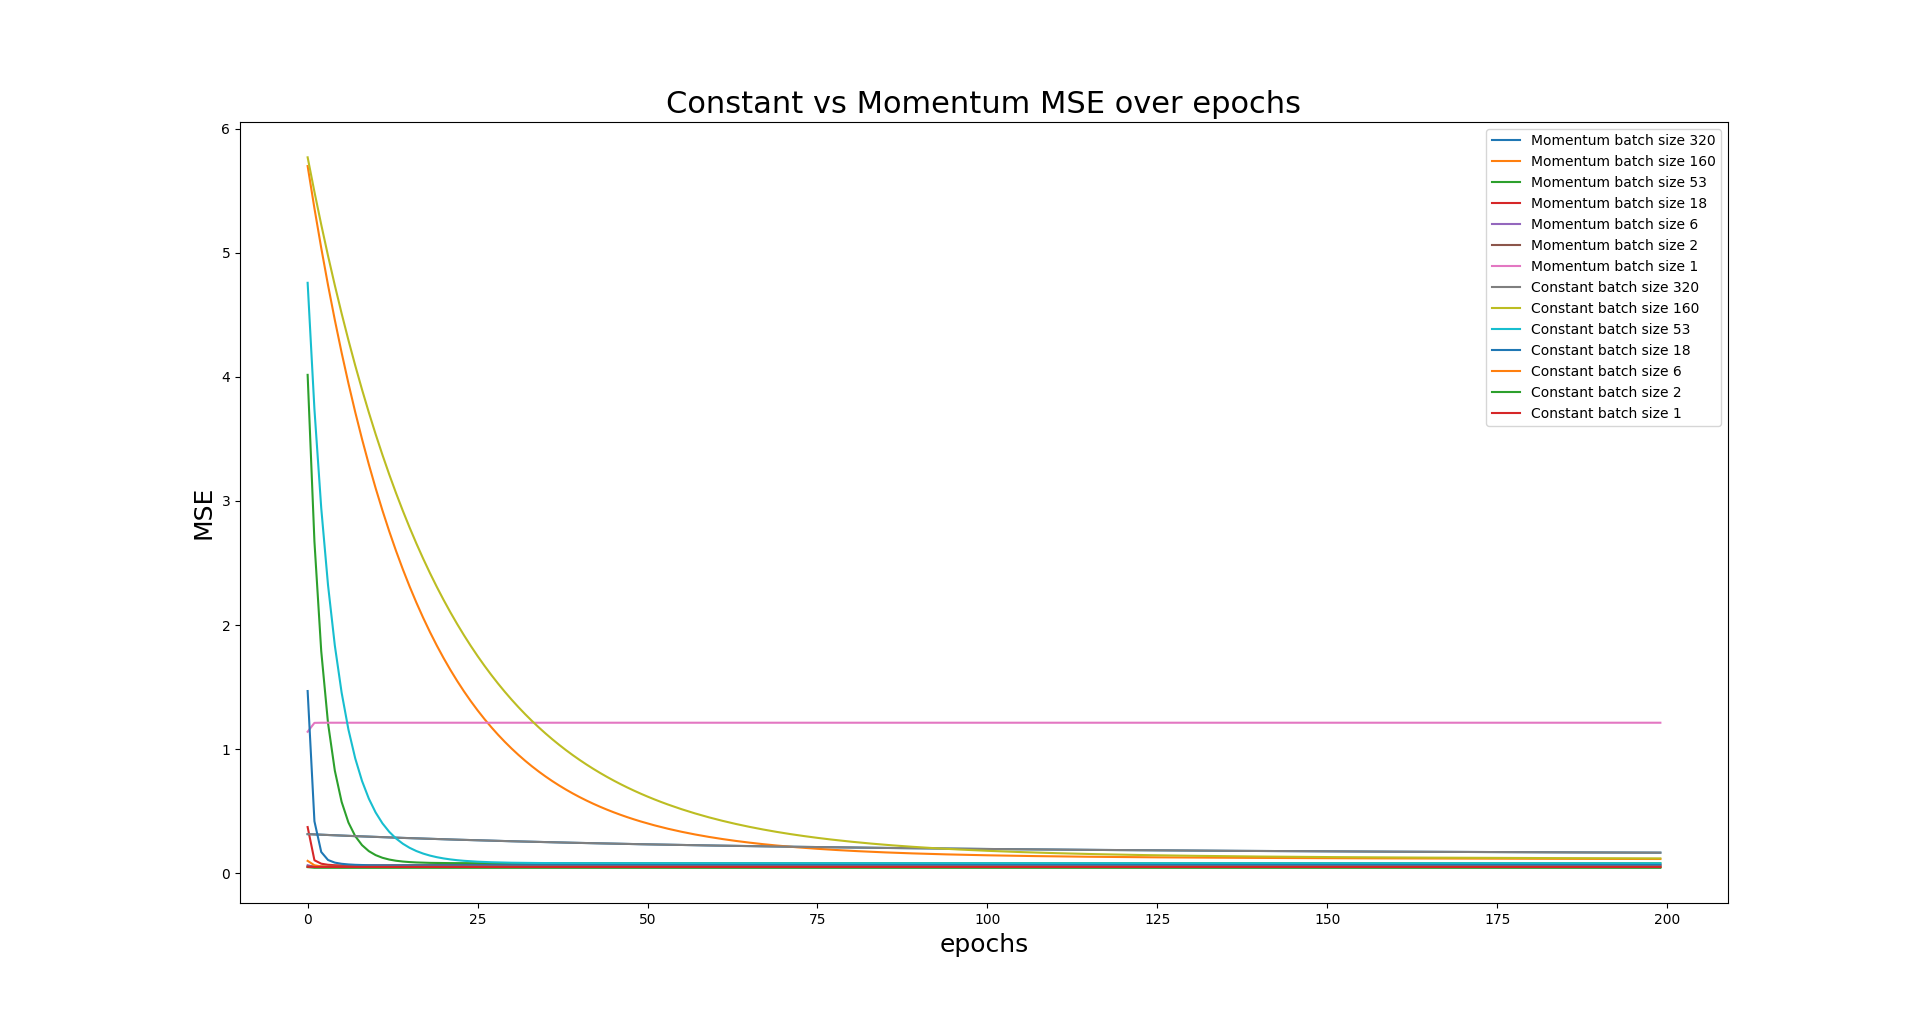
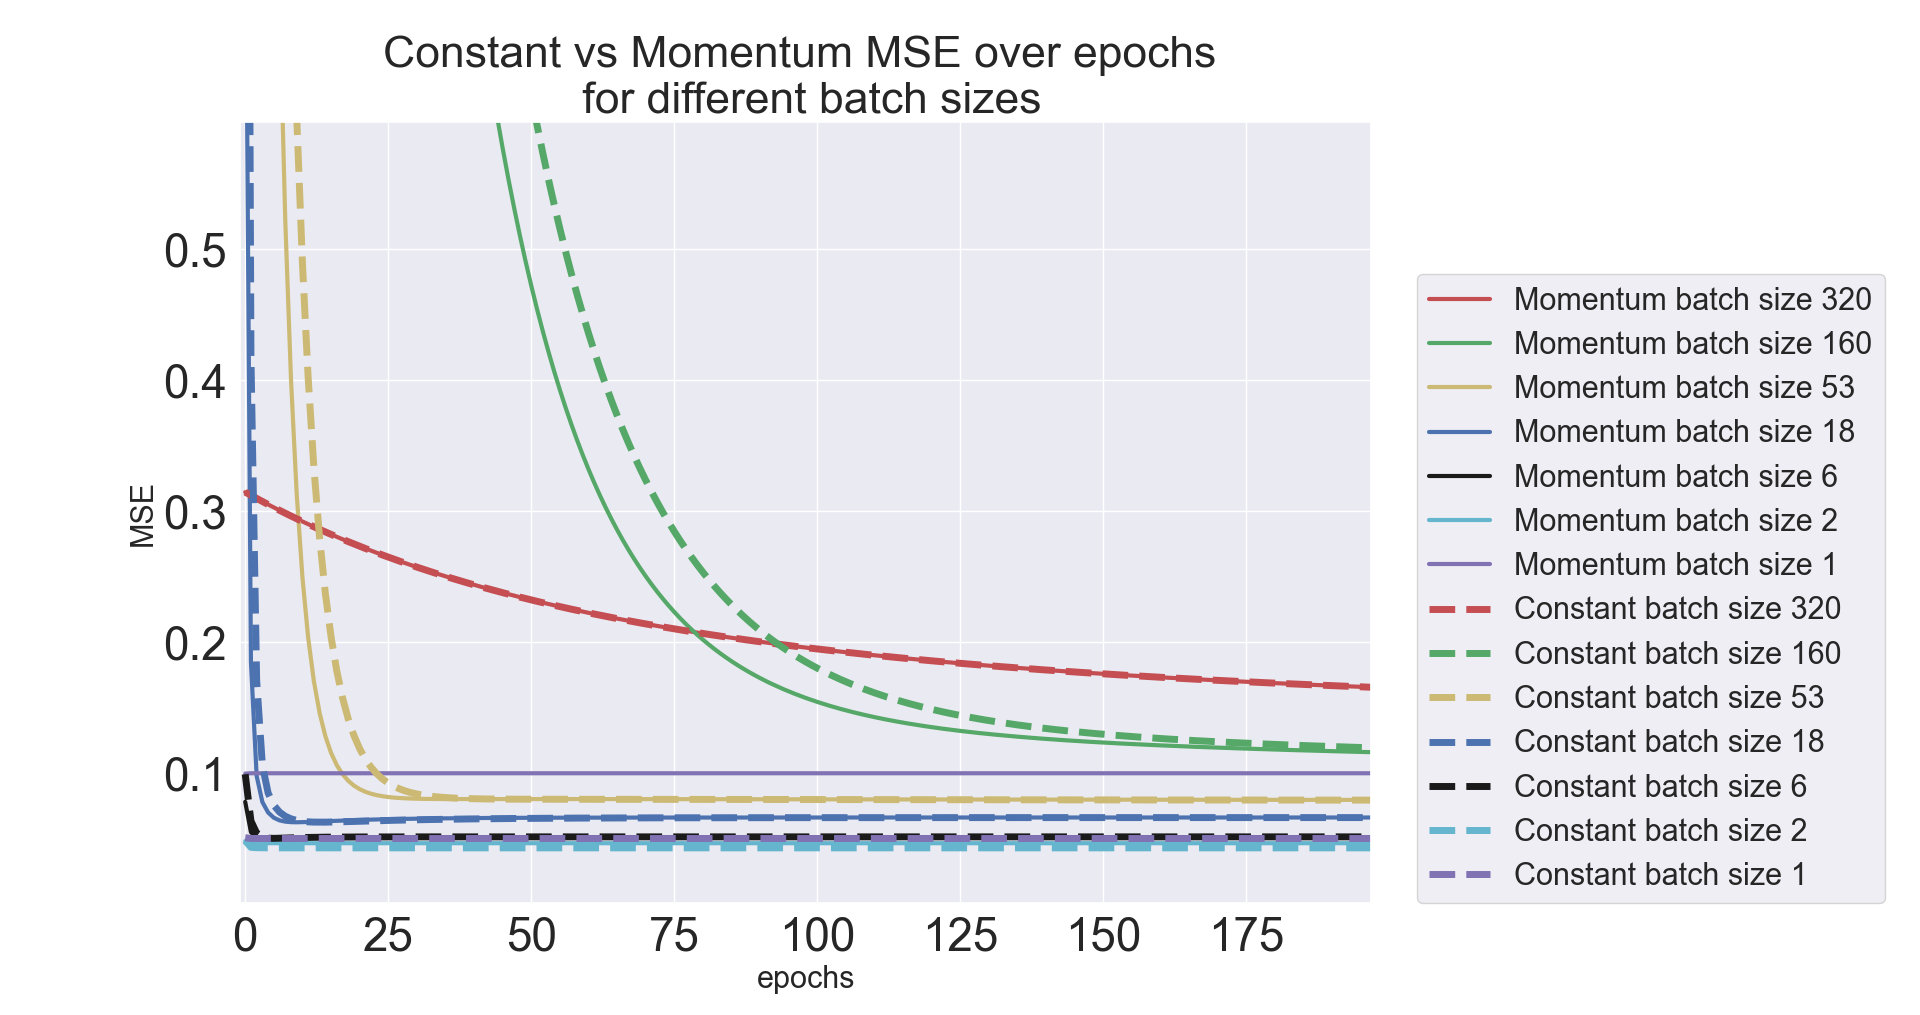
more changes

diff --git a/doc/paper.tex b/doc/paper.tex
@@ -298,41 +298,54 @@ MNIST 8x8 & 1797 & 64 & multiclass classification (10 classes) \\
 
 \subsection{Different schedulers used with linear regression}
 
--hessian vs constant?
--constant vs momentum
--adaptive methods
--batch sizes
-
 In order to study the attributes of the different scheduler methods we performed numerical linear regression using gradient descent on the Franke Function with 55 features. We started off by comparing Newtons method for gradient descent to a constant learning rate using full batch gradient descent.
 
-FIG CONSTANT V HESSIAN
+\begin{figure}[h]
+\centerline{\includegraphics[width=5in]{figure/constant_v_hessian.png}}
+\caption{Constant scheduler with gridsearched hyperparameters vs hessian (Newton's method) MSE for test data plotted for 200 epochs}
+\label{constant_v_hessian}
+\end{figure}
 
-From observing FIG CONSTANT V HESSIAN we see that Newton's method using Hessian inversion greatly outperforms the constant scheduler by reaching an MSE of 0.02 for the testing data within the first epoch. This is due to the Hessian inversion in the first epoch in Newton's method being equivalent to the analytical solution.  By comparison, the constant scheduler given 200 epochs reaches an MSE of 0.198 for the testing data. Given this result, it would seem indefensible to claim that Newtons method requires improvements, especially considering the time it took the Newton method 0.1512 seconds to compute 200 epochs, again beating the result from the constant scheduler which took 0.4991 seconds \footnote{this result should be taken with a grain of salt, given that the constant scheduler is run as a part of a larger architecture, whilst the Hessian calculation is done in a seperate script. Still, this provides an intuition that Newton's method does not take much time to compute this specific problem}. This result is due to the Hessian matrix only being a mere 56x56 matrix for this problem, such that the matrix inversion will not be computationally complex. However, if we were to increase the complexity of the problem, Newtons method would rapidly increase in computational complexity as it is a large matrix inversion with many floating point operations. For problems of such a small scale, when our features are based on a polynomial approximation Franke Function, it can be important to remember that we don't necessarily have to turn to these fancier solutions as the simple Newton method will do the job perfectly. Keeping this lesson in mind, we wish to further investigate the various scheduler methods in order to gain a better understanding of how well they perform, which will become useful for larger problems.
+From observing Fig.~\ref{constant_v_hessian} we see that Newton's method using inversion of the  Hessian matrix greatly outperforms the constant scheduler by reaching an MSE of 0.020 for the testing data within the first epoch. Newton's method quickly converges, but does so with some error SULI P121, meaning it will not improve past this result. The analytical solution provides an MSE of approximately 0.003 REBER ET HANSSEN, a whole order of magnitude lower than the MSE Newton's method achieves. By comparison, the constant scheduler given 200 epochs reaches an MSE of 0.198 for the testing data. Given this result, it would seem indefensible to claim that Newtons method requires improvements, especially considering the time it took the Newton method 0.1512 seconds to compute 200 epochs, again beating the result from the constant scheduler which took 0.4991 seconds \footnote{this result should be taken with a grain of salt, given that the constant scheduler is run as a part of a larger architecture, whilst the Hessian calculation is done in a seperate script. Still, this provides an intuition that Newton's method does not take much time to compute this specific problem}. This result is due to the Hessian matrix only being a mere 56x56 matrix for this problem, such that the Hessian matrix inversion will not be computationally complex. However, if we were to increase the complexity of the problem, Newtons method would rapidly increase in computational complexity as it is a large matrix inversion with many floating point operations. For problems of such a small scale, when our features are based on a polynomial approximation of the Franke Function, it can be important to remember that we don't necessarily have to turn to these fancier solutions as the simple Newton method will do the job perfectly very well for little computational cost. Keeping this lesson in mind, we wish to further investigate the various scheduler methods in order to gain a better understanding of how well they perform, which will become useful for larger problems.
 
-From FIGURE MOMENTUM v CONSTANT we can observe that adding momentum reduces the amount of epochs necessary to reach a lower MSE score. Already after EPOCHS epochs, the momentum scheduler has achieved MOMENTUM MSE AT EPOCHS, a notable improvement over CONSTANT MSE AT EPOCHS achieved by a constant learning rate.
+\begin{figure}[h]
+\centerline{\includegraphics[width=5in]{figure/constant_v_momentum.png}}
+\caption{Constant vs momentum MSE for test data plotted for 200 epochs using full gradient descent}
+\label{constant_v_momentum}
+\end{figure}
 
-From FIGURE MOMENTUM  v CONSTANT, we can observe that adding momentum does not improve upon the solutions found by the constant scheduler when using full gradient descent, reaching once again an MSE of 0.21 for the test data. This implies that when both schedulers are gridsearched for optimal hyperparameters, the optimal value for the momentum hyperparameter is 0. This result makes sense, as the momentum hyperparameter is used to reduce noise from derivatives calculated from smaller batch sizes, so-called mini batches. When utilizing a full gradient descent, where the batch size equals the size of the training data, momentum will not improve our results.
+From  Fig.~\ref{constant_v_momentum}, we can observe that adding momentum does not improve upon the solutions found by the constant scheduler when using full gradient descent, reaching once again an MSE of 0.21 for the test data. This implies that when both schedulers are gridsearched for optimal hyperparameters, the optimal value for the momentum hyperparameter is 0. This result makes sense, as the momentum hyperparameter is used to reduce noise from derivatives calculated from smaller batch sizes, so-called mini batches. When utilizing a full gradient descent, where the batch size equals the size of the training data, momentum will not improve our results.
 
-BATCH SIZE FIG (should mention in text that 320 is the size of the training data. Should mention base batch size for grid search was 18)
+\begin{figure}[h]
+\centerline{\includegraphics[width=5in]{figure/SGD_batch_momentum_constant.png}}
+\caption{Constant vs momentum test MSE for different batch sizes, plotted for 200 epochs using full gradient descent. A batch size of 320 is full GD, whilst a batch size of 1 is fully stochastic GD.}
+\label{batch_constant_v_momentum}
+\end{figure}
 
-By introducing mini-batch gradient descent, we can observe that 
-
-By introducing mini-batch gradient descent of different batch sizes, we can observe from BATCH SIZE FIG that the scheduler methods perform better when optimized for different batch sizes over 100 epochs. Both the constant and the momentum scheduler seem to vary equally over batch sizes, with the optimal batch size being equal to one. This means that our schedulers work the best for a fully stochastic gradient descent (SGD). The MSE with full gradient descent, as can be seen in BATCH SIZE FIG when batch size equals 320, provides an MSE of 4.211 of the test data, whilst SGD provides an MSE of 0.28 for the test data in an equal amount of time. Because we first gridsearched the optimal values of eta and lambda first with a predefined base batch size, we must acknowledge that BATCH SIZE FIG will have some bias towards the batch size used when found the optimal hyperparameters. However, given that we have gridsearched with different base batch sizes accross our testing, we have found the results to be similar accross different base batch sizes, and that this bias which we induced to save computational time was insignificant. A full comparison of MSE over batch sizes for all the different schedulers can be viewed in APPENDIX in the appendix.
+By introducing mini-batch gradient descent, we can observe that stochastic gradient descent with momentum starts outperforming the constant scheduler consistantly, requiring fewer steps to reach a low MSE. Mini-batch gradient descent clearly yields a lower MSE for the test data than full gradient descent for the same amount of epochs. The best result for both constant and momentum were reached for a batch size equal to 2, close to a fully stochastic gradient descent. The test data MSE reached 0.044, an impressive improvement over constant's previous result of 0.198 MSE with full gradient descent. Because we first gridsearched the optimal values of eta and lambda first with a predefined base batch size, we must acknowledge that Fig.~\ref{batch_constant_v_momentum} will have some bias towards the batch size used when found the optimal hyperparameters. However, given that we have gridsearched with different base batch sizes accross our testing, we have found the results to be similar accross different base batch sizes, and that this bias which we induced to save computational time was insignificant. A full comparison of MSE over batch sizes for all the different schedulers can be viewed in APPENDIX in the appendix, but all schedulers yield the lowest MSE for stochastic gradient descent.
 
 FIG ALL
 TIME TABLE FOR ALL SCHEDULERS
 
-Furthermore, with the introduction of various adaptive scheduler methods such as RMS prop, adagrad, adagrad with momentum and adam we can observe from FIGURE ALL that we can reach even greater results in fewer epochs. We can also observe that the different schedulers all reach an MSE of 0.02 within a couple of epochs, but in order to get a better understanding of the computational cost we have also compared the time it took to fit the data to an MSE of 0.2 of the test data. Looking at TIME TABLE FOR ALL SCHEDULERS, Adagrad took the least time, beating out our baseline constant scheduler by 0,222106 seconds. Based on FIG ALL, Adam seems to reach an MSE of 0.2 the fastest when strictly looking at the number of epochs required, however, whilst Adagrad requires more epochs the computations are computed faster in our implementation. Surprisingly, RMS prop performed more poorly than expected compared to other adaptive schedulers.
+Furthermore, with the introduction of various adaptive scheduler methods such as RMS prop, adagrad, adagrad with momentum and adam we can observe from FIGURE ALL that we can reach even greater results in fewer epochs. We can also observe that the different schedulers all reach an MSE of 0.200 within a couple of epochs, but in order to get a better understanding of the computational cost we have also compared the time it took to fit the data to an MSE of 0.200 of the test data. Looking at TIME TABLE FOR ALL SCHEDULERS, Adagrad took the least time, beating out our baseline constant scheduler by 0,222106 seconds. Based on FIG ALL, Adam seems to reach an MSE of 0.2 the fastest when strictly looking at the number of epochs required, however, whilst Adagrad requires more epochs the computations are computed faster in our implementation. Surprisingly, RMS prop performed more poorly than expected compared to other adaptive schedulers.
 
-FIGURE NUM (heatmap)
+\begin{figure}[h]
+\centerline{\includegraphics[width=5in]{figure/100e_gridsearch.png}}
+\caption{MSE score gridsearch for hyperparameters eta, lambda for different schedulers}
+\label{heatmap}
+\end{figure}
 
-An interesting insight from FIGURE NUM is that all the schedulers prefer high learning rates and regularization. As this plot was generated for 100 epochs due to the computational complexity of gridsearching the six schedulers, the bias towards higher learning rates is certainly due to the high learning rates being able to reach a low MSE in the short training time. With the lambda = 0 column representing the ordinary least squares solutions, these are clearly consistantly outperformed by Ridge regression as the best MSE is achieved with regularization. For this specific plot, momentum does not seem to make out a noticeable difference for the best solutions, as the optimal solution equals their momentumless counterparts. That being said, in FIG ALL it is clear that the added momentum aids in a quicker convergence when compared to the constant scheduler.
+An interesting insight from Fig.~\ref{heatmap} is that all the schedulers prefer high learning rates and regularization. As this plot was generated for 100 epochs due to the computational complexity of gridsearching the six schedulers, the bias towards higher learning rates is certainly due to the high learning rates being able to reach a low MSE in the short training time. With the lambda = 0 column representing the ordinary least squares solutions, these are clearly consistantly outperformed by Ridge regression as the best MSE is achieved with regularization. For this specific plot, momentum does not seem to make out a noticeable difference for the best solutions, as the optimal solution equals their momentumless counterparts. That being said, in FIG ALL it is clear that the added momentum aids in a quicker convergence when compared to the constant scheduler.
 
-Another observation from FIG NUM is that the schedulers final error for 100 epochs are more or less the same. As the largest change in MSE occurs in the first 50 epochs as seen in ALL FIGS, perhaps the other schedulers are given enough time to catch up as the best performing schedulers, such as Adagrad, starts slowing down the rate at which the MSE is decreased. However, as can be seen in HEATMAP FIG, Adagrad offers a 12\% \footnote{$\frac{constant MSE}{adagrad MSE} * 100 = \frac{0.018}{0.015} * 100 = 12\%$} decrease in MSE compared to the constant scheduler. It is clear from the results thus far that Adagrad is the best scheduler for approximating the Franke function when using linear regression with gradient descent. We believe that the reason Adagrad wins out is that these result are based on training for 100 epochs. The downfall of Adagrad in the literature seems to be that the aggressive decaying of the learning rate hinders a quick convergence deeper into training SOURCE https://towardsdatascience.com/learning-parameters-part-5-65a2f3583f7d. We are thus cautionary to claim that Adagrad will do the best job over a much larger amount of epochs when compared to adaptive schedulers that claim to improve this aspect such as Adam.
+Another observation from Fig.~\ref{heatmap} is that the schedulers final error for 100 epochs are more or less the same. As the largest change in MSE occurs in the first 50 epochs as seen in ALL FIGS, perhaps the other schedulers are given enough time to catch up as the best performing schedulers, such as Adagrad, starts slowing down the rate at which the MSE is decreased. However, as can be seen in Fig.~\ref{heatmap}, Adagrad offers a 12\% \footnote{$\frac{constant MSE}{adagrad MSE} * 100 = \frac{0.018}{0.015} * 100 = 12\%$} decrease in MSE compared to the constant scheduler. It is clear from the results thus far that Adagrad is the best scheduler for approximating the Franke function when using linear regression with gradient descent. We believe that the reason Adagrad wins out is that these result are based on training for 100 epochs. The downfall of Adagrad in the literature seems to be that the aggressive decaying of the learning rate hinders a quick convergence deeper into training SOURCE https://towardsdatascience.com/learning-parameters-part-5-65a2f3583f7d. We are thus cautionary to claim that Adagrad will do the best job over a much larger amount of epochs when compared to adaptive schedulers that claim to improve this aspect such as Adam.
 
-5000e_adam_v_adagrad
+\begin{figure}[h]
+\centerline{\includegraphics[width=5in]{figure/5000e_adam_v_adagrad.png}}
+\caption{MSE test error over 5000 epochs for Adam and Adagrad schedulers}
+\label{adam_v_adagrad}
+\end{figure}
 
-To test this, we compared Adagrad with Adam over 5000 epochs, cross validated for 5 folds. Both schedulers perform almost equally, with Adagrad reaching a slightly lower MSE of 0.011 for the test data when compared to Adam's 0.012. It could be argued that 5000 epochs is not enough for the improvements of Adam to be noticeable, as the MSE could still be pushed much lower. However, for these computationally expensive runs it is clear that Adagrad is the scheduler of choice, especially considering our previous conclusion that Adagrad used less time to train. It should be noted that scikit learn's implementation outperforms both our implementation of Adagrad and Adam, with an MSE of 0.004. This could be due to a more favorable wight initialization in scikits model, along with additional optimizations implemented in their library. That we don't beat the analytical solution is no surprise, as we have limited ourself to a polynomial approximation of the Franke Function with 56 features. Our MSE might approach the analytical MSE, but this might take an unreasonable amount of epochs considering the computational runtime. Next, we investigate the use of linear regression in a neural network with hidden nodes, such that we can free ourselves of the limitations of the polynomial approximation.
+To test this, we compared Adagrad with Adam over 5000 epochs, cross validated for 5 folds, as can be seen in Fig.~\ref{heatmap}. Both schedulers perform almost equally, with Adagrad reaching a slightly lower MSE of 0.011 for the test data when compared to Adam's 0.012. It could be argued that 5000 epochs is not enough for the improvements of Adam to be noticeable, as the MSE could still be pushed much lower. However, for these computationally expensive runs it is clear that Adagrad is the scheduler of choice, especially considering our previous conclusion that Adagrad used less time to train. It should be noted that scikit learn's implementation outperforms both our implementation of Adagrad and Adam, with an MSE of 0.004. This could be due to a more favorable wight initialization in scikits model, along with additional optimizations implemented in their library. That we don't beat the analytical solution is no surprise, as we have limited ourself to a polynomial approximation of the Franke Function with 56 features. Our MSE might approach the analytical MSE, but this might take an unreasonable amount of epochs considering the computational runtime. Still, we have obtained an MSE lower than the Newton method's result of 0.020, even though it was at a much greater computation. Next, we investigate the use of linear regression in a neural network with hidden nodes, such that we can free ourselves of the limitations of the polynomial approximation.
 
 \subsection{Neural Network for regression}
 
